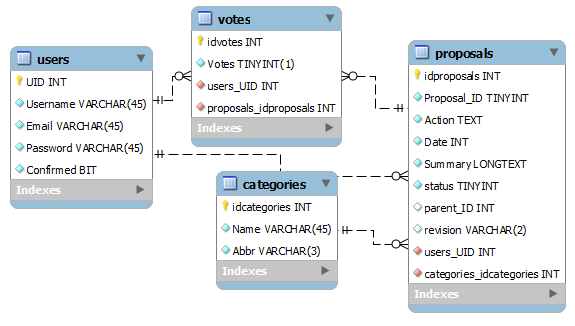
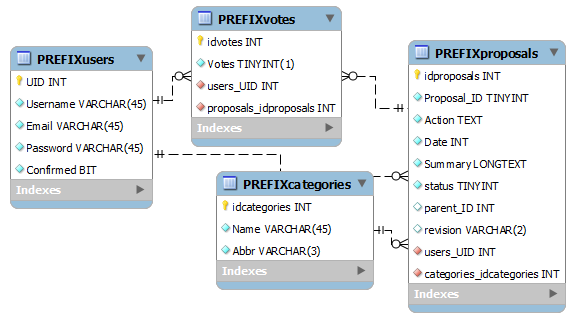
Did some work on the installation, still doesn't work but there's progress.

diff --git a/install.php b/install.php
@@ -29,7 +29,11 @@ function makeConfig($post){
                 $key2 = substr($line,$pos1,$pos2);
             }
             $line = substr($line,0,$equal+2).$post[$key1.$key2];
-            if($key1.$key2 == "sqlpre"){ $prefix = $post[$key1.$key2]; }
+            if($key1.$key2 == "sqluser"){ $sql['user'] = $post[$key1.$key2]; }
+            if($key1.$key2 == "sqlpass"){ $sql['pass'] = $post[$key1.$key2]; }
+            if($key1.$key2 == "sqlserver"){ $sql['server'] = $post[$key1.$key2]; }
+            if($key1.$key2 == "sqldatabase"){ $sql['db'] = $post[$key1.$key2]; }
+            if($key1.$key2 == "sqlpre"){ $sql['pre'] = $post[$key1.$key2]; }
         }elseif(substr($line,0,3) == "die"){
             $line = "// ".$line;
         }
@@ -42,6 +46,49 @@ function makeConfig($post){
     //undo locks
     flock($file, LOCK_UN);
     flock($example, LOCK_UN);
+    
+
+    //start SQL stuff
+    $file = fopen('install.sql','c+');
+    flock($file, LOCK_EX); //lock config.php with writer's rights.
+
+    //start main filereading loop
+    while(!feof($file)){
+        //get line
+        $line = fgets($example);
+    }
+    //undo locks
+    flock($file, LOCK_UN);
+    unset($file);
+}
+function getKeys(){
+    $return = array();
+    if(file_exists('example.config.php')){
+        //open the example file.
+        $example = fopen('example.config.php','r');
+    }else{
+        die("Both the example configuration file not found, install could not proceed.");
+    }
+    flock($example, LOCK_SH); //lock example.config.php with readers's rights.
+
+    //start main filereading loop
+    while(!feof($example)){
+        $line = fgets($example);
+        if(substr($line,0,1) == "$"){
+            //line is a variable declaration
+            $key1 = substr($line,7,strpos($line,'\'',8)-7);
+            if(substr_count($line,"][")){
+                //nested array, find it
+                $pos1 = strpos($line,"]")+3;
+                $pos2 = strpos($line,"'",$pos1)-$pos1;
+                $key2 = substr($line,$pos1,$pos2);
+            }
+            $varName = $key1.$key2;
+            //locate variable explanation.
+            
+            $return[] = array($varName,$explanation);
+        }
+    }
 }
 
 if(file_exists('config.php')){
@@ -50,5 +97,6 @@ if(file_exists('config.php')){
     makeConfig($_POST);
 }else{
     //there's no configuration file, show form to make one.
+    $data = getkeys();
 }
 ?>
